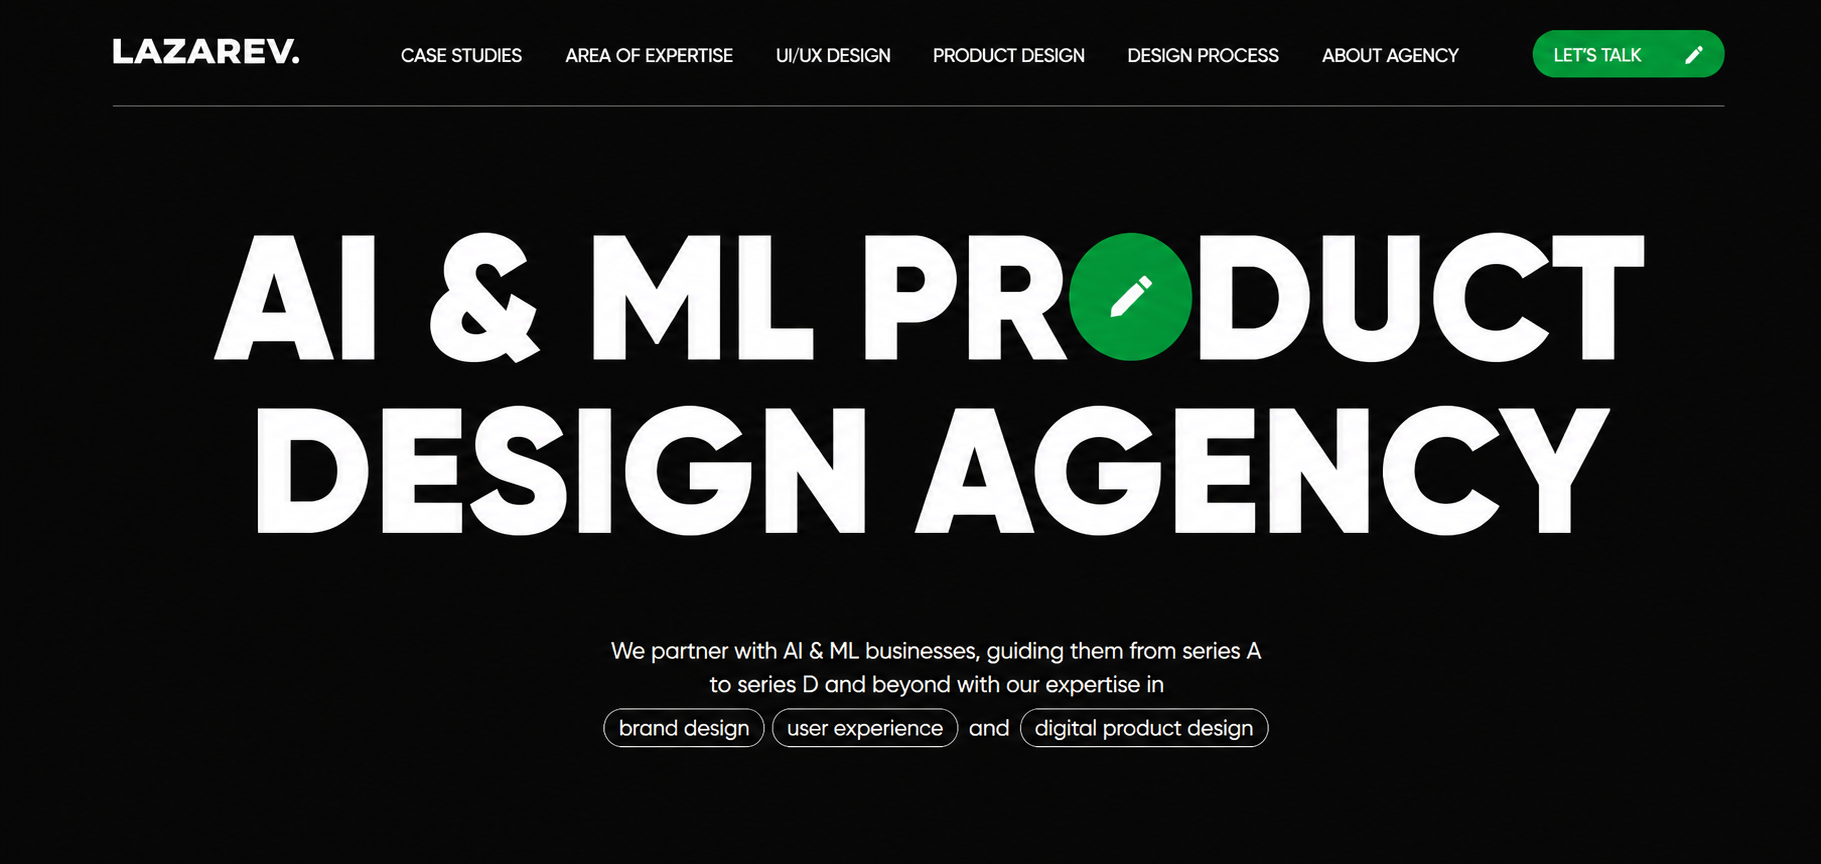
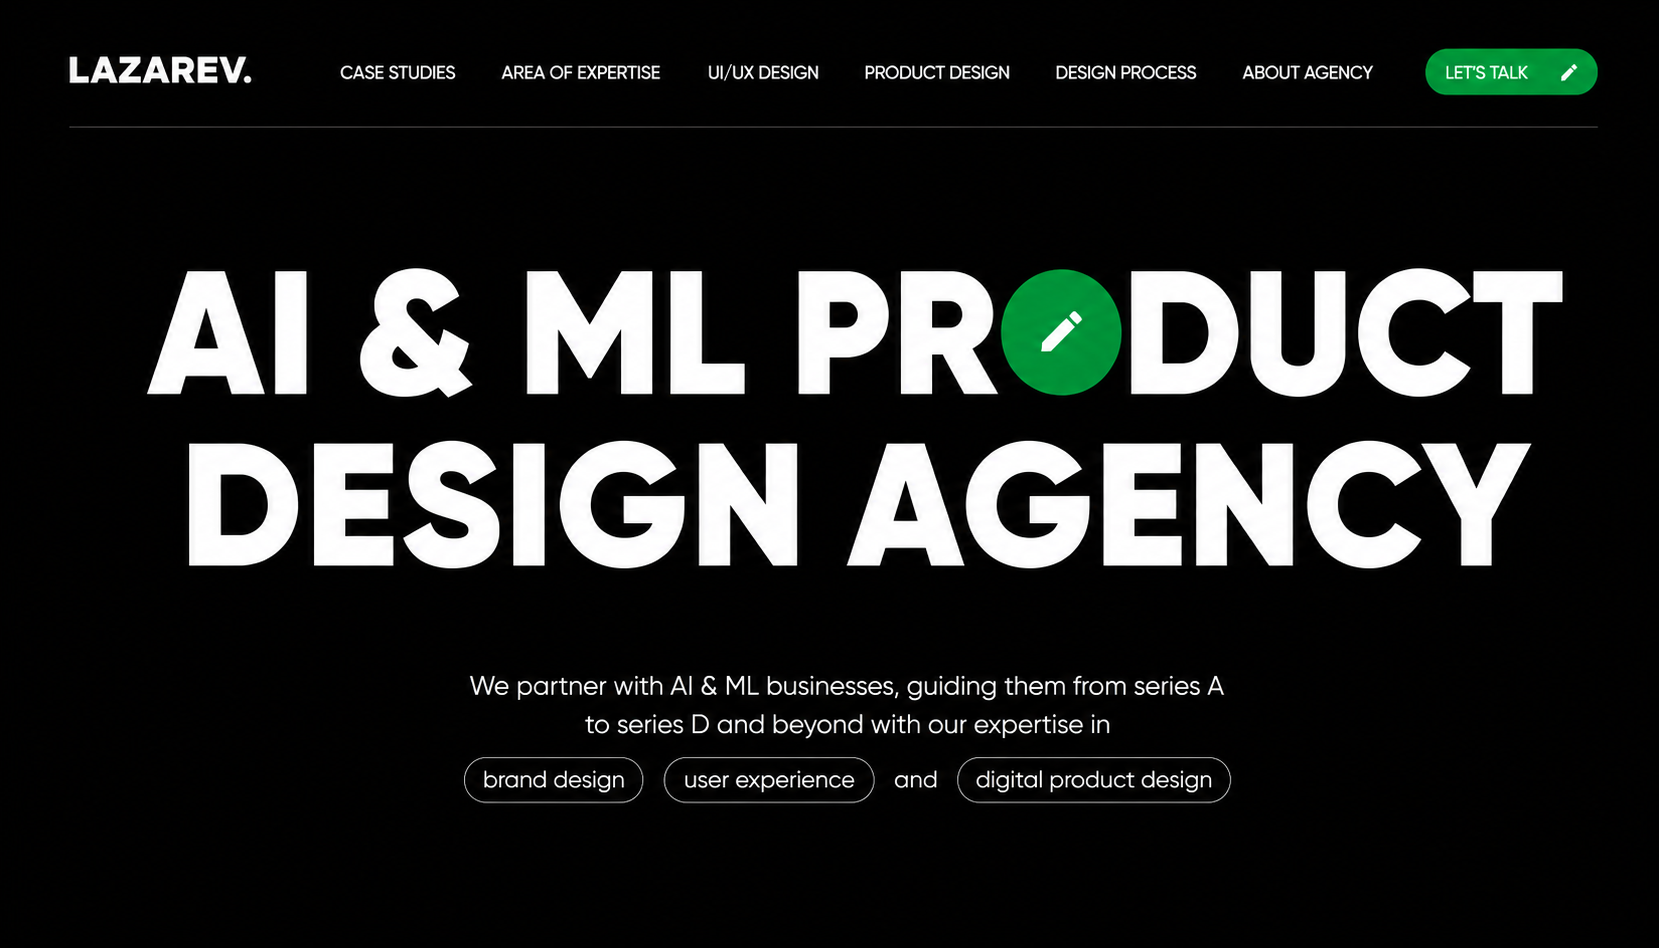
project section completed

diff --git a/src/pages/Work/components/Work.jsx b/src/pages/Work/components/Work.jsx
@@ -1,13 +1,120 @@
-import React from 'react'
+import React, { useState } from 'react'
 import bgImg from "../../../assets/bg-img.png";
+import  SundownStudioImg from  "../../../assets/sundown-img.png"
+import K72Img from "../../../assets/K72-img.png"
+import  WorkStudioImg from  "../../../assets/Work-studio-img.png"
+import  LazarevImg from  "../../../assets/Lazarev-img.png"
+import MirandaImg from "../../../assets/miranda-img.png"
+import PerplexityImg from "../../../assets/Perplexity-img.png"
+import Heading from './Heading';
+import Project from './Project';
+import BigImage from './BigImage';
 
+
+
+export const projects = [
+  {
+    title: "Perplexity AI",
+    image: PerplexityImg,
+      slug: "perplexity-ai",
+      tagline:"Search smarter with AI.",
+      live:"https://perplexity-qfgq.onrender.com/",
+description:
+  "An AI-powered search assistant built with the MERN stack that delivers intelligent, real-time responses through a conversational interface. It integrates Gemini AI and LangChain to understand user queries, supports image and text-based searches, and streams AI-generated responses. The application focuses on speed, accuracy, and a seamless user experience while demonstrating full-stack architecture and modern AI integration.",      techStack:[ "React.js",
+  "Tailwind CSS",
+  "Redux Toolkit",
+  "Node.js",
+  "Express.js",
+  "MongoDB",
+  "Socket.IO",
+  "JWT",
+  "Gemini AI",
+  "LangChain",],
+      highlight:[ "AI-powered conversational search",
+  "Image and text query support",
+  "Real-time response streaming",
+  "Secure JWT authentication",
+  "Responsive and modern UI",]
+  },
+  {
+    title: "Sundown Studio",
+    image: SundownStudioImg,
+      slug: "sundown-studio",
+    tagline:
+    "Award-winning design, recreated with precision.",
+  live: "https://sundown-studio-clone-seven-topaz.vercel.app/",
+description:
+  "A pixel-perfect recreation of the award-winning Sundown Studio website, built to showcase advanced frontend development skills. The project features smooth GSAP animations, interactive scrolling effects, responsive layouts, and carefully crafted transitions. Every section is designed to replicate the premium feel and immersive storytelling of the original website.",
+    techStack:[  "HTML5",
+  "CSS3",
+  "JavaScript",
+  "GSAP",
+  "Locomotive Scroll",],
+  highlight:[ "Pixel-perfect UI recreation",
+  "Smooth GSAP animations",
+  "Custom cursor interactions",
+  "Fully responsive layout",
+  "Interactive scrolling effects",]    
+  },
+  {
+    title: "Lazarev",
+    image: LazarevImg,
+      slug: "lazarev",
+      tagline:"A seamless creative experience.",
+    live: "https://lazarev-website-clone-s4ti.vercel.app/",
+    description:"A modern clone of the Lazarev digital agency website, focused on creating an engaging and visually rich user experience. Built with HTML, CSS, JavaScript, and Lenis smooth scrolling, it includes fluid animations, interactive hover effects, and responsive layouts. The project demonstrates attention to detail and advanced UI implementation.",
+    techStack:[  "HTML5",
+  "CSS3",
+  "JavaScript",
+  "GSAP",
+  "Lenis",],
+  highlight:[  "Smooth Lenis scrolling",
+  "Premium landing page design",
+  "Creative hover animations",
+  "Interactive user experience",
+  "Responsive across devices",]
+    },
+  {
+    title: "K72",
+    image: K72Img,
+    tagline:"Crafted with React and motion.",
+      slug:"k72",
+      highlight: [
+  "Component-based architecture",
+  "Smooth Framer Motion animations",
+  "Responsive user interface",
+  "Modern landing page design",
+  "Clean and reusable code",
+],
+    live: "https://k72-website-5sr1.onrender.com",
+    description:"A responsive React.js clone of the K72 website that emphasizes clean layouts, smooth navigation, and interactive animations. Framer Motion is used to create elegant page transitions and engaging micro-interactions. The project highlights component-based architecture, responsive design principles, and a polished user interface.",
+    techStack:[ "React.js",
+  "Framer Motion"]
+  },
+];
 
 const Work = () => {
+  const [activeProject, setActiveProject] = useState(projects[0]);
+
   return (
-   <main
-    className="h-screen w-full bg-cover bg-center"
-    style={{ backgroundImage: `url(${bgImg})` }}
-  >
+   <main className="h-screen w-full bg-cover bg-center  "
+        style={{ backgroundImage: `url(${bgImg})` }}>
+
+    <div>
+      <div className='w-full flex flex-col pl-10 pr-10  gap-10  '>
+        <div className='h-92  pl-132 pt-15' >
+          <BigImage activeProject={activeProject} />
+        </div>
+        <div className=' h-54 flex justify-between  ' >
+          <Heading/>
+         <Project
+    projects={projects}
+    activeProject={activeProject}
+    setActiveProject={setActiveProject}
+/>
+        </div>
+      </div>
+    </div>
    </main>
   )
 }

diff --git a/src/pages/Work/components/ProjectDetail.jsx b/src/pages/Work/components/ProjectDetail.jsx
@@ -1,0 +1,44 @@
+import { useNavigate, useParams } from "react-router-dom";
+import { projects } from "../components/Work";
+import bgImg from "../../../assets/bg-img.png";
+import ProjectDescription from "./ProjectDescription";
+
+
+
+const ProjectDetails = () => {
+  const { slug } = useParams();
+
+  const project = projects.find((p) => p.slug === slug);
+
+  const navigate = useNavigate()
+
+  return (
+    <div className="min-h-screen w-full bg-cover bg-center px-10 py-6 flex  gap-15 "
+            style={{ backgroundImage: `url(${bgImg})` }}>
+   <div>
+      <div className="w-[450px] flex flex-col gap-5 ">
+      <button onClick={() => navigate(-1)} className="border border-white bg-transparent w-36  px-5 py-2 text-xl hover:bg-white hover:text-black transition-colors text-white font-[font2]">RETURN TO HOME</button>
+       <h1 className="text-7xl text-white font-[font1]  ">{project.title}</h1>
+      <p className="font-[satoshi-regular] text-[#e2e0e0] leading-0.9 ">{project.tagline}</p>
+<a
+  href={project.live}
+  target="_blank"
+  rel="noopener noreferrer"
+  className="border border-white bg-transparent w-30 px-4 py-2 text-xl hover:bg-white hover:text-black transition-colors text-white font-[font2] text-center"
+>
+  LIVE LINK
+</a>     </div>
+      <img
+        src={project.image}
+        className="w-[520px]  mt-10"
+      />
+   </div>
+
+   <div className="mt-auto">
+    <ProjectDescription project={project} />
+   </div>
+    </div>
+  );
+};
+
+export default ProjectDetails;

diff --git a/src/pages/Work/components/ProjectDescription.jsx b/src/pages/Work/components/ProjectDescription.jsx
@@ -1,0 +1,58 @@
+import React from "react";
+
+const ProjectDescription = ({ project }) => {
+  return (
+    <div className="description  text-white  ">
+      <div className="w-[650px] ">
+
+        <h1 className="font-[font2] text-4xl mb-3">
+          DESCRIPTION
+        </h1>
+
+        <p className="font-[satoshi-regular] text-lg text-[#e2e0e0] leading-[1.2] mb-10">
+          {project.description}
+        </p>
+
+        <div className="flex  gap-10  ">
+
+          <div className=" ">
+            <h1 className="text-3xl font-[font2] mb-3">
+              TECH STACK
+            </h1>
+
+          <ul className="  ">
+  {project.techStack.map((tech) => (
+    <li
+      key={tech}
+      className="  text-[#e2e0e0] text-sm"
+    >
+      • {tech}
+    </li>
+  ))}
+</ul>
+          </div>
+
+          <div>
+            <h1 className="text-3xl font-[font2] mb-3">
+              HIGHLIGHTS
+            </h1>
+
+            <ul className="space-y-2">
+              {project.highlight.map((item) => (
+                <li
+                  key={item}
+                  className="text-[#e2e0e0] text-sm leading-[0.8] font-[satoshi-regular]"
+                >
+                  • {item}
+                </li>
+              ))}
+            </ul>
+          </div>
+
+        </div>
+      </div>
+    </div>
+  );
+};
+
+export default ProjectDescription;

diff --git a/src/pages/Work/components/Project.jsx b/src/pages/Work/components/Project.jsx
@@ -1,0 +1,43 @@
+import React from "react";
+
+const Project = ({
+    projects,
+    activeProject,
+    setActiveProject
+}) => {
+
+    return (
+
+        <div className="flex gap-4 pt-24">
+
+            {projects.map((project) => (
+
+                <div
+                    key={project.title}
+                    onMouseEnter={() => setActiveProject(project)}
+                    className="cursor-pointer"
+                >
+
+                    <img
+                        src={project.image}
+                        alt=""
+                        className={`w-36 h-24  object-contain transition-all duration-300
+
+                        ${
+                            activeProject.title === project.title
+                            ? "scale-110 border-2  border-cyan-800"
+                            : "opacity-60 hover:opacity-100"
+                        }
+                        `}
+                    />
+
+                </div>
+
+            ))}
+
+        </div>
+
+    );
+};
+
+export default Project;

diff --git a/src/pages/Work/components/Heading.jsx b/src/pages/Work/components/Heading.jsx
@@ -1,0 +1,15 @@
+import React from "react";
+
+const Heading = () => {
+  return (
+    <div >
+      <div className="flex flex-col gap-8 ">
+        
+        <h1 className="text-7xl font-[font1] text-white">SELECTED <span className=" font-[font2]" >PROJECTS</span></h1>
+         <p className="font-[satoshi-regular] leading-[1.2] w-[400px]  text-[#e2e0e0]">This collection is a reflection of my journey as a developer where every project starts with an idea, grows through experimentation and continuous learning, and comes to life through thoughtful design, clean code, and meaningful user experiences.</p>
+      </div>
+    </div>
+  );
+};
+
+export default Heading;

diff --git a/src/pages/Home/components/Intro.jsx b/src/pages/Home/components/Intro.jsx
@@ -6,7 +6,7 @@ const second = "PURPOSE.";
 
 const Intro = () => {
   return (
-    <div className=' h-30 w-100 mr-20 mt-80 text-white '>
+    <div className=' h-30 w-100 mr-20 mt-75 text-white '>
         <p className='font-[satoshi-regular] text-[#e2e0e0] '>I build full-stack web applications where thoughtful design meets reliable engineering. Every feature has a purpose, every line of code has a reason. I create fast, scalable, and user-focused digital experiences with clean code, modern technologies, and intuitive design.</p>
   <h3 className="text-3xl flex flex-wrap leading-0.8">
       {first.split("").map((char, index) => (

diff --git a/src/pages/Work/components/BigImage.jsx b/src/pages/Work/components/BigImage.jsx
@@ -1,0 +1,21 @@
+import React from "react";
+import { useNavigate } from "react-router-dom";
+
+const BigImage = ({ activeProject }) => {
+  const navigate = useNavigate(); // ✅ Correct spelling
+
+  return (
+    <div
+      onClick={() => navigate(`/work/${activeProject.slug}`)}
+      className="h-[300px] w-[620px] overflow-hidden rounded-xl cursor-pointer ml-40"
+    >
+      <img
+        src={activeProject.image}
+        alt={activeProject.title}
+        className="w-full h-full object-contain rounded-xl transition-all duration-500"
+      />
+    </div>
+  );
+};
+
+export default BigImage;

diff --git a/src/app/AppRoutes.jsx b/src/app/AppRoutes.jsx
@@ -1,10 +1,17 @@
 import { Routes, Route } from "react-router-dom";
 import LandingPage from "./LandingPage";
+import Work from "../pages/Work/components/Work";
+import ProjectDetail from "../pages/Work/components/ProjectDetail";
 
 export default function AppRoutes() {
   return (
     <Routes>
       <Route path="/" element={<LandingPage />} />
+      <Route path="/work" element={<Work/>}/>
+       <Route
+          path="/work/:slug"
+          element={<ProjectDetail />}
+        />
     </Routes>
   );
 }

diff --git a/src/app/index.css b/src/app/index.css
@@ -1,7 +1,6 @@
 @import "tailwindcss";
-html {
-  scroll-behavior: smooth;
-}
+
+
 
 @font-face {
   font-family: "clean-bold";
